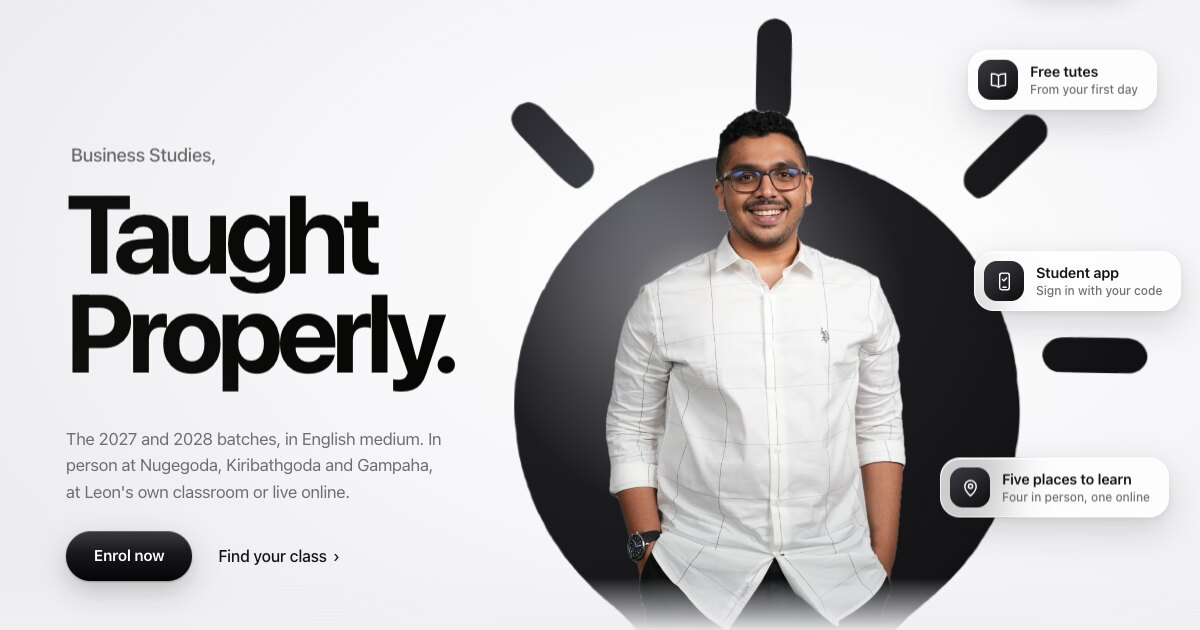
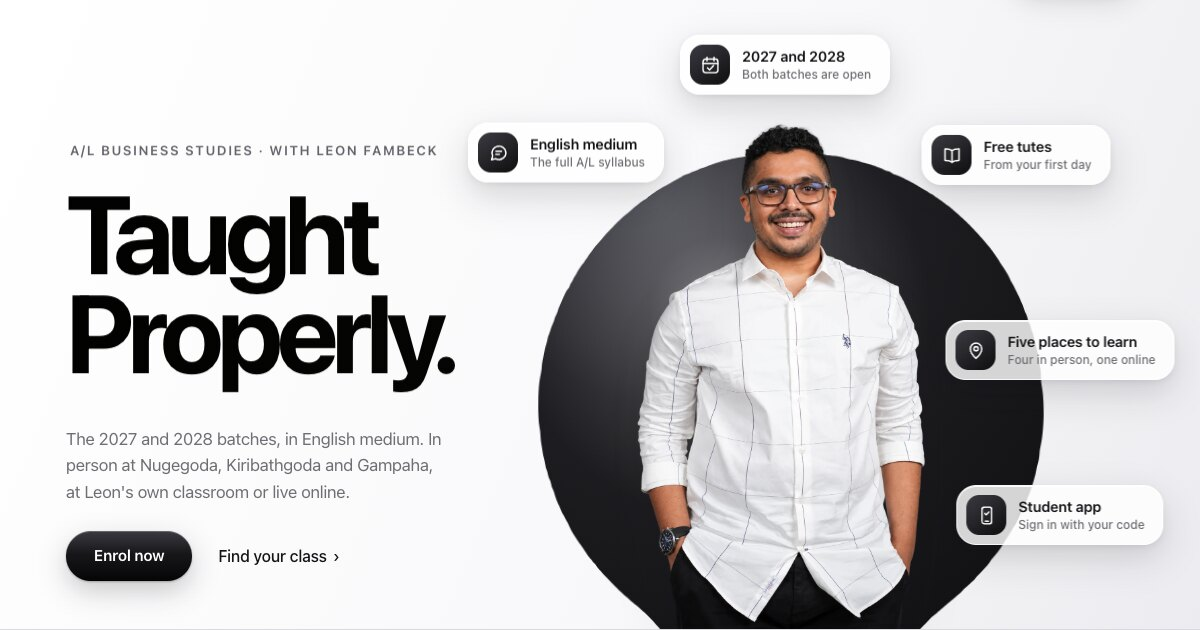
The solid bulb back, each ray becomes a card, the circles gone, one warm light
Thulaib, 21 Sep: he liked the hero as it was with the full solid bulb and did not
like the outlined one. He wants the icon cards back, ideally each of the bulb's
four rays turning into one. He asked whether the yellow in A perfect record should
be another colour, and called the circle in the reasons panel very ugly.

- Hero: the solid mark is back, 112 per cent and raised. Leon keeps the refined
  cut-out from this morning. Each of the four rays shoots out of the bulb and turns
  into the card that stands where the ray was: above his head, upper left, upper
  right, right. The student app card comes out from behind him. Positions are the
  measured centres of the rays (getBBox), mapped through the bulb's box. After the
  entrance a ray only shows when the light is touched. The headline is back in
  difference mode so it can never be lost against the mark.
- The yellow stays, as ONE token (--light) with ONE meaning: switched on. The bulb
  in A perfect record is off until the band is on screen, then warm light fills it
  and a halo opens behind it, so the chosen reason and the lit bulb say the same thing.
- Every decorative circle is gone: the arc in the reasons panel, the hairline circle
  behind Find your class, the pulsing ring round the zero. The tap burst is a soft
  bloom of light, never an outline.
- The record bulb no longer sags over the reason cards: its scroll travel and scale
  are capped. Measured while wheel scrolling: never closer than 97px.
[…]

diff --git a/src/styles/pages.css b/src/styles/pages.css
@@ -9,6 +9,7 @@
   --edge:clamp(20px,5.5vw,80px);              /* the one left edge: brand, headline and hero copy all sit on it */
   --paper:#f5f5f7; --gr:#6e6e73; --gr2:#86868b;
   --hx-display:var(--font-display);
+  --light:#efd185;                             /* THE ONE WARM TONE. It means one thing: switched on. The lit bulb and the chosen reason, nowhere else */
 }
 h1,h2,h3,h4{letter-spacing:-.035em}
 body.locked{overflow:hidden}
@@ -78,11 +79,12 @@ body.locked{overflow:hidden}
 .bulb-ray,.bulb-glint{transform-box:fill-box}
 .bulb-glow{opacity:0;transition:opacity .9s var(--ease);mix-blend-mode:screen}
 .dark .bulb-glow{mix-blend-mode:multiply}
-.is-lit .bulb-glow{opacity:.62}
+.is-lit .bulb-glow{opacity:.4}   /* .62 read as a grey smudge on the disc, most of all on a phone */
 .is-on .bulb-glow{opacity:1;transition-duration:.12s}
-.ring{position:absolute;left:40%;top:45.8%;width:76%;aspect-ratio:1;border-radius:50%;border:2px solid rgba(20,20,23,.5);
-  transform:translate(-50%,-50%) scale(.8);opacity:0;pointer-events:none}
-.dark .ring{border-color:rgba(255,255,255,.55)}
+.ring{position:absolute;left:40%;top:45.8%;width:120%;aspect-ratio:1;border-radius:50%;
+  background:radial-gradient(closest-side,rgba(20,20,23,.2),rgba(20,20,23,.08) 55%,rgba(20,20,23,0));   /* a soft burst of light, never an outline */
+  transform:translate(-50%,-50%) scale(.7);opacity:0;pointer-events:none}
+.dark .ring{background:radial-gradient(closest-side,rgba(255,255,255,.22),rgba(255,255,255,.07) 55%,rgba(255,255,255,0))}
 .is-on .ring{animation:mkRing 1s var(--ease) both}
 .is-on .bulb-ray,.is-on .bulb-glint{animation:mkFire .95s var(--ease) both}
 @media (prefers-reduced-motion:no-preference){
@@ -92,7 +94,7 @@ body.locked{overflow:hidden}
 @keyframes mkRay{from{opacity:0;transform:translate(calc(var(--dx)*-2.4),calc(var(--dy)*-2.4)) scale(.5)}to{opacity:1;transform:none}}
 @keyframes mkBreathe{from{transform:none}to{transform:translate(calc(var(--dx)*.85),calc(var(--dy)*.85))}}
 @keyframes mkFire{0%{transform:none}38%{transform:translate(calc(var(--dx)*2.1),calc(var(--dy)*2.1)) scale(1.14)}100%{transform:none}}
-@keyframes mkRing{from{opacity:.75;transform:translate(-50%,-50%) scale(.8)}to{opacity:0;transform:translate(-50%,-50%) scale(1.6)}}
+@keyframes mkRing{from{opacity:1;transform:translate(-50%,-50%) scale(.7)}to{opacity:0;transform:translate(-50%,-50%) scale(1.35)}}
 
 /* ═══ HOME HERO. One complete bulb mark, one portrait, one message. ═══ */
 .hx{--H:clamp(520px,calc(100svh - var(--nav-h) - 56px),900px);
@@ -102,47 +104,93 @@ body.locked{overflow:hidden}
 .hx:after{content:"";position:absolute;z-index:4;left:0;right:0;bottom:0;height:1px;background:#d9d9df;pointer-events:none}
 .ph:after{content:"";position:absolute;z-index:4;left:0;right:0;bottom:0;height:52px;pointer-events:none;
   background:linear-gradient(180deg,rgba(240,240,243,0),rgba(240,240,243,.94))}
-.hx-stage{position:absolute;left:69%;bottom:0;width:var(--H);height:var(--H);transform:translateX(-50%);pointer-events:none}
-.hx-stage .bulbwrap{position:absolute;z-index:1;top:7%;left:52%;width:55%;opacity:.58}
-.hx-stage .bulb-outline g[fill]{fill:none}
-.hx-stage .bulb-outline .bulb-body,.hx-stage .bulb-outline .bulb-ray,.hx-stage .bulb-outline .bulb-glint{stroke:#55555d;stroke-width:95;stroke-linejoin:round;stroke-linecap:round}
-.hx-stage .bulb-outline .bulb-ray,.hx-stage .bulb-outline .bulb-glint{stroke-width:125}
-.hx-leon{position:absolute;z-index:3;bottom:0;left:50%;height:98%;width:auto;max-width:none;transform:translateX(-50%);filter:drop-shadow(0 18px 23px rgba(25,25,29,.11))}
-.hx-head{position:absolute;z-index:2;left:var(--edge);top:50%;transform:translateY(-72%);pointer-events:none}
-.hx-head small{display:block;font:600 clamp(13px,1.1vw,16px)/1.2 var(--hx-display);letter-spacing:.12em;text-transform:uppercase;color:#66666c;margin:0 0 24px 4px}
-.hx-head h1{font:700 clamp(62px,9.2vw,142px)/.9 var(--hx-display);letter-spacing:-.055em;color:#121214;max-width:none}
+.hx-stage{position:absolute;left:65%;bottom:0;width:var(--H);height:var(--H);transform:translateX(-50%);pointer-events:none}
+/* THE MARK: solid, whole, in brand black (Thulaib, 21 Sep 2026: no outline version, ever). 112% of the stage and raised,
+   so the head of the bulb frames his head and shoulders. 40% of 112 = 44.8: the bulb HEAD is centred on Leon. */
+.hx-stage .bulbwrap{position:absolute;z-index:1;top:-7%;left:50%;width:112%;margin-left:-44.8%}
+.hx-leon{position:absolute;z-index:3;bottom:0;left:50%;height:98%;width:auto;max-width:none;transform:translateX(-50%);filter:drop-shadow(0 18px 23px rgba(25,25,29,.11))}   /* static, always */
+/* White type in difference mode: black on the page, white where it crosses the mark. The blend sits on the positioned
+   box itself, because under a transformed parent it blends against nothing. #999993 reads as #66666c on the page. */
+.hx-head{position:absolute;z-index:2;left:var(--edge);top:50%;transform:translateY(-72%);pointer-events:none;mix-blend-mode:difference}
+.hx-head small{display:block;font:600 clamp(13px,1.1vw,16px)/1.2 var(--hx-display);letter-spacing:.12em;text-transform:uppercase;color:#999993;margin:0 0 24px 4px}
+.hx-head h1{font:700 clamp(62px,9.2vw,142px)/.9 var(--hx-display);letter-spacing:-.055em;color:#fff;max-width:none}
 .hx-head h1 span{display:block;overflow:hidden;padding:0 .08em .16em 0;margin-bottom:-.16em}
 .hx-head h1 i{display:block;font-style:normal}
 .hx-copy{position:relative;z-index:5;align-self:end;padding:0 var(--edge) 7svh;max-width:calc(var(--edge) + 470px)}
 .hx-copy p{font-size:17px;line-height:1.55;letter-spacing:-.012em;color:var(--gr);max-width:36ch}
 .hx-cta,.ph-cta{margin-top:26px;display:flex;align-items:center;gap:26px;flex-wrap:wrap}
 
+/* THE RAYS BECOME THE FACTS (Thulaib, 21 Sep 2026). Leon's bulb has four rays. Each ray shoots out of the bulb, then
+   turns into one card that sits exactly where the ray was: above his head, upper left, upper right and right. The fifth
+   card, the student app, comes out from behind him. Positions are the measured centres of the rays in the mark
+   (getBBox), mapped through the bulb's box: x = .052H + rx * 1.12H, y = -.07H + ry * 1.614H. */
+.hx-chips{position:absolute;inset:0;z-index:6}
+.hx-chip{--c:translate(-50%,-50%);position:absolute;display:block;transform:var(--c);pointer-events:auto}
+.hx-chip-in{display:flex;align-items:center;gap:12px;padding:9px 18px 9px 9px;border-radius:20px;white-space:nowrap;
+  background:rgba(255,255,255,.82);-webkit-backdrop-filter:blur(20px) saturate(170%);backdrop-filter:blur(20px) saturate(170%);
+  border:1px solid rgba(255,255,255,.8);box-shadow:0 1px 0 rgba(255,255,255,.9) inset,0 14px 34px rgba(20,20,23,.16),0 2px 6px rgba(20,20,23,.08);
+  transition:box-shadow .45s var(--ease),background .3s}
+.hx-chip:hover .hx-chip-in{background:#fff;box-shadow:0 1px 0 #fff inset,0 20px 44px rgba(20,20,23,.22),0 3px 8px rgba(20,20,23,.1)}
+.hx-ic{flex:none;width:40px;height:40px;border-radius:13px;display:grid;place-items:center;background:linear-gradient(145deg,#3a3a41,#0e0e10);color:#fff}
+.hx-ic .ic{width:21px;height:21px}
+.hx-chip b{display:block;font:600 14.5px/1.15 var(--hx-display);letter-spacing:-.015em;color:#141417}
+.hx-chip small{display:block;margin-top:3px;font:500 12px/1.1 var(--hx-display);color:var(--gr);letter-spacing:-.005em}
+.hx-chip.k-top{left:50.8%;top:1.5%;--a:90deg;--f:6.4s}                                   /* the top ray, above his head */
+.hx-chip.k-tl{left:12.8%;top:16.9%;--a:45deg;--f:7.6s}                                  /* the upper left ray */
+.hx-chip.k-tr{left:min(91.1%,calc(35vw + var(--H)*.5 - 140px));top:17.2%;--a:-45deg;--f:6.6s}   /* the upper right ray */
+.hx-chip.k-r{left:min(107.5%,calc(35vw + var(--H)*.5 - 140px));top:51.3%;--a:0deg;--f:7.2s}     /* the right ray. The min() keeps it on the screen */
+.hx-chip.k-app{left:min(101%,calc(35vw + var(--H)*.5 - 140px));top:80%;--a:-30deg;--f:5.8s}     /* from behind him, lower right */
+
+/* In the hero the rays are only seen on their way to becoming cards, and again when the light is touched. */
+.hx .bulb-ray{opacity:0}
 @media (prefers-reduced-motion:no-preference){
-  .ph-stage .bulbwrap{animation:hxBulb 1.3s var(--ease) both}
+  .ph-stage .bulbwrap,.hx-stage .bulbwrap{animation:hxBulb 1.3s var(--ease) both}
   .hx-leon,.ph-leon{animation:hxLeon 1.25s var(--ease) .2s both}
-  .hx-stage .bulbwrap{animation:hxBulbLine 1.4s var(--ease) .3s both}
   .hx-head h1 i{animation:hxLine 1.05s var(--ease) both}
   .hx-head h1 span:nth-child(1) i{animation-delay:.5s}
   .hx-head h1 span:nth-child(2) i{animation-delay:.6s}
   .hx-head small,.hx-copy,.ph-copy{animation:hxUp 1s var(--ease) .8s both}
+  .hx .bulb-ray{animation:hxRayOut 1.5s var(--ease) both;animation-delay:calc(.9s + var(--k,0)*.26s)}
+  .hx .bulb-ray[style*="--i:1"]{--k:0}.hx .bulb-ray[style*="--i:0"]{--k:1}.hx .bulb-ray[style*="--i:2"]{--k:2}.hx .bulb-ray[style*="--i:4"]{--k:3}
+  .hx-chip{animation:hxBecome .95s cubic-bezier(.34,1.4,.64,1) both;animation-delay:calc(1.75s + var(--n)*.26s)}
+  .hx-chip-in{animation:hxFloat var(--f,6s) ease-in-out infinite alternate;animation-delay:calc(3.2s + var(--n)*.4s)}
+  .hx-chip .ic *{animation:hxDraw 1.2s var(--ease) both;animation-delay:calc(2.15s + var(--n)*.26s)}
+  .hx.is-set .bulb-ray{animation:none}
+  .hx.is-set.is-on .bulb-ray{animation:hxRayFire .95s var(--ease) both}
 }
 @keyframes hxBulb{from{opacity:0;transform:scale(.9)}to{opacity:1;transform:none}}
-@keyframes hxBulbLine{from{opacity:0;transform:scale(.94)}to{opacity:.58;transform:scale(1)}}
 @keyframes hxLeon{from{opacity:0;transform:translateX(-50%) translateY(48px)}to{opacity:1;transform:translateX(-50%)}}
 @keyframes hxLine{from{transform:translateY(108%)}to{transform:none}}
 @keyframes hxUp{from{opacity:0;transform:translateY(14px)}to{opacity:1;transform:none}}
+@keyframes hxRayOut{0%{opacity:0;transform:translate(calc(var(--dx)*-2.4),calc(var(--dy)*-2.4)) scale(.5)}45%{opacity:1;transform:none}70%{opacity:1;transform:none}100%{opacity:0;transform:scale(1.18)}}
+@keyframes hxRayFire{0%{opacity:0;transform:none}35%{opacity:1;transform:translate(calc(var(--dx)*1.2),calc(var(--dy)*1.2)) scale(1.1)}100%{opacity:0;transform:translate(calc(var(--dx)*2),calc(var(--dy)*2))}}
+@keyframes hxBecome{0%{opacity:0;transform:var(--c) rotate(var(--a)) scale(.2,.32)}55%{opacity:1}100%{opacity:1;transform:var(--c)}}
+@keyframes hxFloat{from{transform:translateY(0)}to{transform:translateY(-10px)}}
+@keyframes hxDraw{from{stroke-dashoffset:100}to{stroke-dashoffset:0}}
 @media (max-width:1100px){
   .hx{grid-template-rows:auto auto 1fr}
   .hx-head{position:relative;top:auto;left:auto;transform:none;padding:36px var(--edge) 0}
   .hx-head small{margin-left:2px}
   .hx-head h1{font-size:clamp(56px,15vw,112px)}
   .hx-copy{align-self:start;padding:22px var(--edge) 0;max-width:none}
-  .hx-stage{position:relative;left:auto;transform:none;justify-self:center;grid-row:3;align-self:end;--H:clamp(420px,62svh,660px);margin-top:26px}
+  .hx-stage{position:relative;left:auto;transform:none;justify-self:center;grid-row:3;align-self:end;--H:clamp(420px,62svh,660px);margin-top:34px;width:min(100vw,var(--H))}
+  /* a narrow screen has no room round the bulb, so the cards line the two edges, below his face */
+  .hx-chip{--c:translate(0,0)}
+  .hx-chip.k-tl{left:calc(50% - 47vw);top:40%}
+  .hx-chip.k-top{left:auto;right:calc(50% - 47vw);top:37%}
+  .hx-chip.k-tr{left:auto;right:calc(50% - 47vw);top:56%}
+  .hx-chip.k-r{left:calc(50% - 47vw);top:62%}
+  .hx-chip.k-app{left:auto;right:calc(50% - 47vw);top:76%}
 }
 @media (max-width:700px){
   .hx-copy p{font-size:16px}
-  .hx-stage{width:min(100vw,var(--H))}
-  .hx-stage .bulbwrap{top:11%;left:52%;width:45%}
+  .hx-chip-in{padding:7px 14px 7px 7px;border-radius:17px;gap:10px}
+  .hx-ic{width:34px;height:34px;border-radius:11px}.hx-ic .ic{width:18px;height:18px}
+  .hx-chip b{font-size:13px}.hx-chip small{font-size:11px}
+  .hx-chip.k-tl,.hx-chip.k-r{display:none}                       /* English medium and the places are in the sentence above */
+  .hx-chip.k-top{right:auto;left:calc(50% - 47vw);top:44%}
+  .hx-chip.k-tr{top:36%}
+  .hx-chip.k-app{top:60%}
 }
 
 /* ═══ WHO IS LEON. No box behind him. Leon, cut out, standing on the page with a soft floor shadow. ═══ */
@@ -169,12 +217,15 @@ body.locked{overflow:hidden}
 .rec-copy h2{font-size:var(--fs-5xl);margin:var(--s-4) 0 var(--s-6)}
 .rec-copy p{color:var(--muted);font-size:var(--fs-md);max-width:44ch}
 .rec-copy .rec-sub{color:var(--ink);font:600 var(--fs-lg)/1.3 var(--font-display);letter-spacing:-.02em;margin-top:var(--s-5)}
-.rec-mark{position:relative;justify-self:center;width:min(74vw,340px);padding:4% 0}
+.rec-mark{position:relative;justify-self:center;width:min(74vw,340px);padding:4% 0;margin-bottom:var(--s-10)}
 .rec-mark .bulbwrap{width:100%}
-.rec-zero{position:absolute;left:41%;top:48.3%;width:31.4%;height:33.4%;border-radius:50%;transform:translate(-50%,-50%);
-  border:2px solid rgba(20,20,23,.0);pointer-events:none}
-@media (prefers-reduced-motion:no-preference){.is-lit .rec-zero{animation:recZero 3.2s ease-out infinite}}
-@keyframes recZero{0%{border-color:rgba(20,20,23,.55);transform:translate(-50%,-50%) scale(1)}70%,100%{border-color:rgba(20,20,23,0);transform:translate(-50%,-50%) scale(1.75)}}
+/* The bulb in this band is off until the band is on screen, then it switches on: warm light fills it and a halo
+   opens behind it. No rings, no pulses (Thulaib, 21 Sep 2026: the circles were ugly). */
+.rec-mark:before{content:"";position:absolute;left:40%;top:44%;width:150%;aspect-ratio:1;transform:translate(-50%,-50%) scale(.6);border-radius:50%;
+  background:radial-gradient(closest-side,rgba(239,209,133,.22),rgba(239,209,133,.07) 55%,rgba(239,209,133,0));opacity:0;transition:opacity 1.8s var(--ease) .5s,transform 1.8s var(--ease) .5s;pointer-events:none}
+.is-lit .rec-mark:before{opacity:1;transform:translate(-50%,-50%) scale(1)}
+.bulb-warm{opacity:0;transition:opacity 1.6s var(--ease) .5s}
+.is-lit .bulb-warm{opacity:1}
 .rec-stat{display:flex;align-items:baseline;gap:16px;margin:var(--s-10) 0 0}
 .rec-stat b{font:700 clamp(64px,9vw,112px)/.9 var(--font-display);letter-spacing:-.05em;color:var(--ink)}
 .rec-stat span{font-size:11px;letter-spacing:.2em;text-transform:uppercase;color:var(--faint);font-weight:600;max-width:14ch;line-height:1.5}
@@ -238,7 +289,7 @@ body.locked{overflow:hidden}
 .cards3{display:grid;grid-template-columns:1fr;gap:var(--s-5)}
 @media(min-width:900px){.cards3{grid-template-columns:repeat(3,1fr)}}
 .ccard{position:relative;overflow:hidden;display:flex;flex-direction:column;padding-top:var(--s-10);scroll-margin-top:calc(var(--nav-h) + 20px)}
-.ccard-big{font:700 clamp(54px,6vw,84px)/.85 var(--font-display);letter-spacing:-.06em;color:transparent;-webkit-text-stroke:1.4px #141417;margin-bottom:var(--s-8)}
+.ccard-big{font:700 clamp(54px,6vw,84px)/.85 var(--font-display);letter-spacing:-.06em;color:#fff;-webkit-text-stroke:2.8px #141417;paint-order:stroke fill;margin-bottom:var(--s-8);transition:color .4s var(--ease)}
 .ccard:hover .ccard-big{color:#141417}
 .ccard .meta,.place .meta,.post .meta{font-size:10.5px;letter-spacing:.2em;text-transform:uppercase;color:var(--faint);font-weight:600;display:block;margin-bottom:var(--s-3)}
 .ccard h2,.place h2{font-size:var(--fs-xl);margin-bottom:var(--s-3)}

diff --git a/src/styles/home-discovery.css b/src/styles/home-discovery.css
@@ -1,7 +1,7 @@
 /* Home-only discovery sections. Keep the existing black-and-white identity;
    the small warm accent belongs to the lit-bulb idea, not a second brand. */
 .rec {
-  --discovery-light: #efd185;
+  --discovery-light: var(--light);
 }
 
 .rec .rec-grid {
@@ -119,18 +119,6 @@
   background: linear-gradient(110deg, #24242a, #16171b 70%);
 }
 
-.rec .rec-detail::after {
-  content: '';
-  position: absolute;
-  width: 270px;
-  height: 270px;
-  top: -150px;
-  right: -45px;
-  border: 1px solid rgba(239, 209, 133, .14);
-  border-radius: 50%;
-  pointer-events: none;
-}
-
 .rec .rec-panel {
   position: relative;
   z-index: 1;
@@ -161,19 +149,7 @@
   pointer-events: none;
 }
 
-.finder::after {
-  content: '';
-  position: absolute;
-  z-index: -1;
-  top: -320px;
-  right: -130px;
-  width: 620px;
-  height: 620px;
-  border: 1px solid rgba(20, 20, 23, .075);
-  border-radius: 50%;
-  pointer-events: none;
-}
-
+/* The big hairline circle behind this section was removed on 21 Sep 2026: Thulaib does not want decorative circles. */
 .finder .wrap { position: relative; z-index: 1; }
 .finder .sect-head { margin-bottom: 34px; }
 

diff --git a/src/scripts/light.js b/src/scripts/light.js
@@ -66,9 +66,9 @@ function initLight(scene) {
       if (!hot) place(14200 + Math.cos(t * .45) * 9500, 27000 + Math.sin(t * .45) * 8500);   // the light walks round the glass
       const swayX = Math.sin(t * .5) * 7 * amp, swayY = Math.cos(t * .37) * 5 * amp, swayR = Math.sin(t * .31) * 1.1 * amp;
       wrap.style.transform =
-        'translate(' + (-cx * 46 * amp + swayX).toFixed(2) + 'px,' + (-cy * 28 * amp + swayY - sy * .1 * amp).toFixed(2) + 'px) ' +
+        'translate(' + (-cx * 46 * amp + swayX).toFixed(2) + 'px,' + (-cy * 28 * amp + swayY + Math.max(-36, Math.min(14, -sy * .1 * amp))).toFixed(2) + 'px) ' +
         'rotate(' + (cx * 2.6 * amp + swayR + sy * .004 * amp).toFixed(3) + 'deg) ' +   // .012 tilted the record bulb 10 degrees and pushed it over its own caption
-        'scale(' + (1 + Math.abs(sy) * .00016 * amp).toFixed(4) + ')';
+        'scale(' + (1 + Math.min(Math.abs(sy), 300) * .00016 * amp).toFixed(4) + ')';   // capped: a mark waiting below the screen used to sit 80px low and 12% big, over the cards under it
     }
     requestAnimationFrame(tick);
   })(t0);

diff --git a/src/styles/global.css b/src/styles/global.css
@@ -178,7 +178,9 @@ button{font-family:inherit;cursor:pointer;border:none;background:none;color:inhe
 .cls-top{display:flex;align-items:flex-end;justify-content:space-between;gap:var(--s-6)}
 .num{position:relative;font-family:var(--font-display);font-weight:600;font-size:var(--fs-num);
   line-height:.92;letter-spacing:-.04em;white-space:nowrap;user-select:none}
-.num .o{-webkit-text-stroke:1.5px var(--ink);color:transparent;display:block}
+/* The fill is painted OVER the inside half of the stroke in the page colour. With a transparent fill the system font
+   showed every place two contours of a glyph cross, as small spikes inside the 2 and the 7. */
+.num .o{-webkit-text-stroke:3px var(--ink);paint-order:stroke fill;color:var(--bg);display:block}
 .num .f{position:absolute;inset:0;color:var(--ink);display:block}
 .cls-arr{width:64px;height:32px;color:var(--ink);margin-bottom:14px}
 .cls-copy{max-width:560px}

diff --git a/src/scripts/home.js b/src/scripts/home.js
@@ -8,6 +8,9 @@
 //   the default reveals     now one IntersectionObserver in site.js, shared with every page
 import './light.js';
 
+// Once the rays have turned into the cards the entrance is over: from here a ray only shows when the light is touched.
+{ const hero = document.getElementById('hero'); if (hero) setTimeout(() => hero.classList.add('is-set'), 4200); }
+
 /* ── SMART FEATURE: Batch & Path Finder (vanilla, works without GSAP) ── */
 document.documentElement.classList.add('js');
 (function(){
